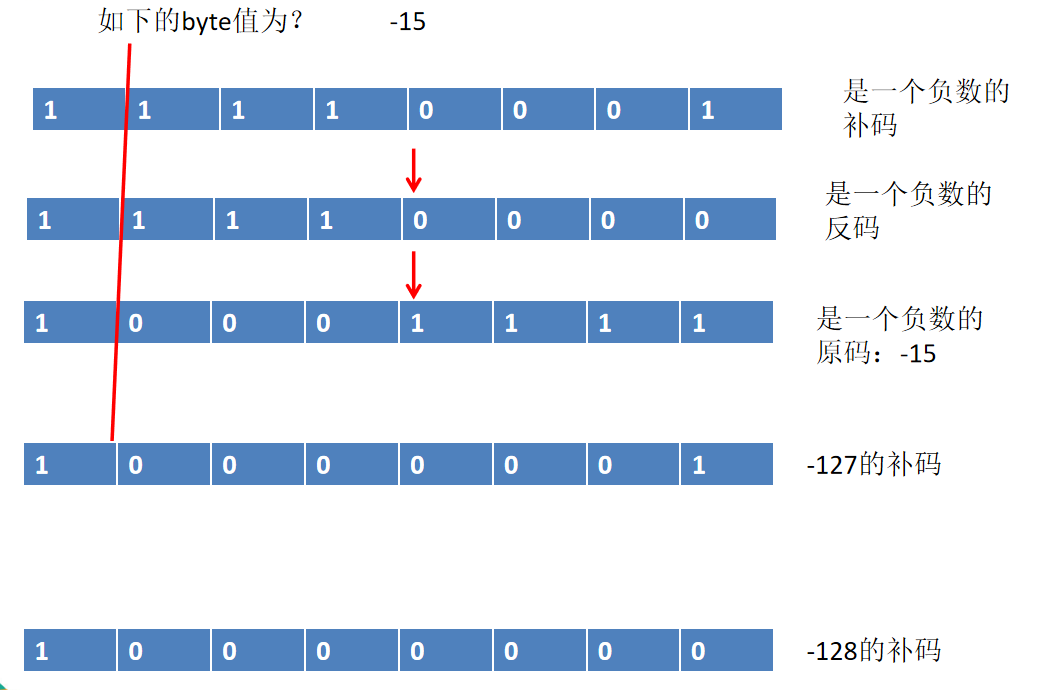
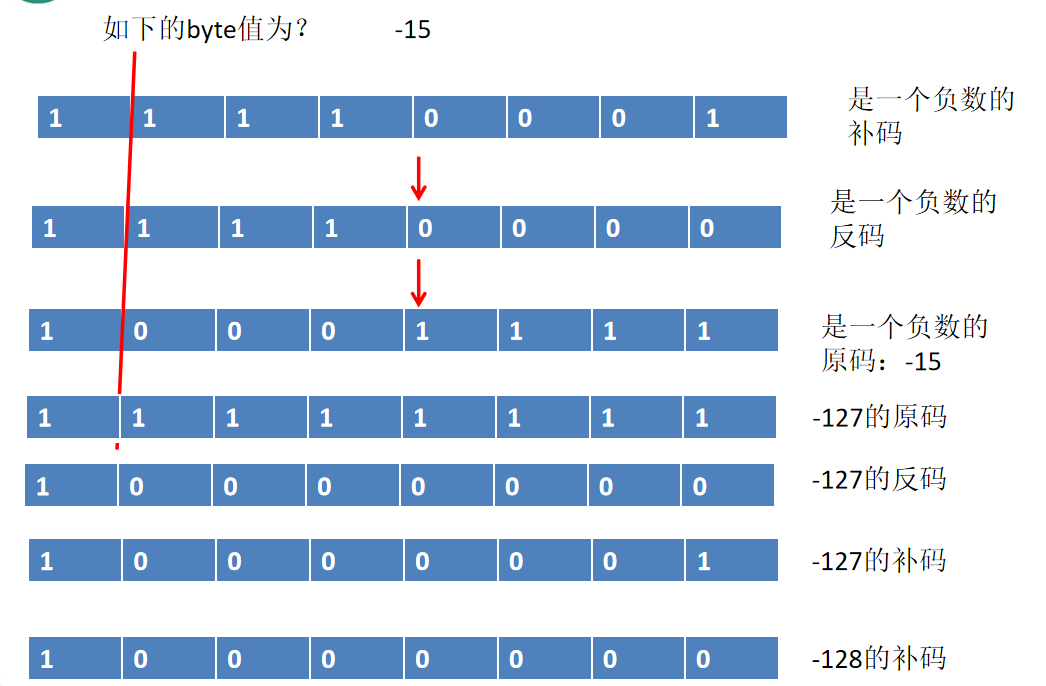
进制之间的转换 算术运算

diff --git a/day01/TestArithmetic.java b/day01/TestArithmetic.java
@@ -1,0 +1,66 @@
+/*
+算术运算
+
+运算符：+(正) -(负) + - * / % ++ -- =(赋值) +(连接)
+* */
+
+public class TestArithmetic {
+    public static void main(String args[]) {
+        // 除：/
+        int i10 = 12;
+        int j = i10 / 5;
+        double d12 = i10 / 5;
+        double d13 = (double)i10 / 5;
+        double d14 = i10 / 5.0;
+
+        System.out.println("j: " + j); // 2
+        System.out.println("d12: " + d12); // 2.0
+        System.out.println("d13: " + d13); // 2.4
+        System.out.println("d14: " + d14); // 2.4
+
+        // 取模(取余数)：%
+        // 结果符号与被模数相同
+        // 模数的符号为负号时忽略
+        int i22 = 13 % 5;
+        int i23 = -13 % 5;
+        int i24 = 13 % (-5);
+        int i25 = -13 % (-5);
+
+        System.out.println("i22: " + i22); // 3
+        System.out.println("i23: " + i23); // -3
+        System.out.println("i24: " + i24); // 3
+        System.out.println("i25: " + i25); // -3
+
+        // 前++：先自增1，后做运算
+        // 后++：后自增1，先做运算
+
+        int i35 = 10;
+        int i36 = ++i35;
+        System.out.println("i35: " + i35); // 11
+        System.out.println("i36: " + i36); // 11
+
+        int i38 = 10;
+        int i39 = i38++;
+        System.out.println("i38: " + i38); // 11
+        System.out.println("i39: " + i39); // 10
+
+        // 前--：先自减1，后做计算
+        // 后--：后自减1，先做计算
+        int i47 = 11;
+        int i48 = --i47;
+        System.out.println("i47: " + i47); // 10
+        System.out.println("i48: " + i48); // 10
+
+        int i52 = 11;
+        int i53 = i52--;
+        System.out.println("i52: " + i52); // 10
+        System.out.println("i53: " + i53); // 11
+
+        // +连接符，除加号功能外另一个功能
+        System.out.println("5 + 5 = " + 5 + 5);
+        System.out.println('*' + '\t' + '*'); // 93，这里字符用''引起来，为char类型数据
+        System.out.println("*" + "\t" + "*"); // *       *
+
+    }
+
+}

diff --git a/day01/README.md b/day01/README.md
@@ -323,18 +323,71 @@ day01-11 不同进制间的转换
 > 0-9及A-F，满16进1，以0x或0X开头。A-F不区分大小写
 
 # 原码、反码、补码
-计算机以补码存储数据
-* 正数的原码、反码、补码三码合一
-* 负数反码：符号位除外，原码各个位取反
+* 所有数字在计算机底层都以二进制形式存在
+* 计算机以补码的形式保存所有的整数。
+* 正数的原码、反码、补码都相同（三码合一）
+* 原码：直接将一个数值转换成二进制数
+* 负数反码：符号位除外，原码各个位取反。对原码按位取反
 * 负数补码：它的反码 + 1
+* 原码、反码、补码中的符号位都不变，即相同
 
+
+负数的原码、反码、补码展示
 ![原码、反码、补码](./images/原码,反码,补码.png)
+![原码、反码、补码2](./images/原码,反码,补码2.png)
 
+负数补码推算其十进制值
 ![负数补码推原码示例](./images/一个负数补码推原码.png)
 
-# 十进制转二进制
+# 进制之间转换
+* 十进制转二进制
 除2取余，逆序排列
 ![十进制转二进制](./images/十进制转二进制.png)
+
+* 进制之间的转换
+![进制之间的转换](./images/进制之间的转换.png)
+* 二进制与十进制互转
+![二进制与十进制互转](./images/十进制与二进制互转.png)
+* 二进制转8进制或16进制
+![二进制转8进制或16进制](./images/二进制转八进制或十六进制.png)
+* 8进制或16进制转二进制
+![8进制或16进制转二进制](./iamges/8进制或16进制转二进制.png)
+
+# 算术运算
+运算符：
+```
++(正)
+-(负)
++
+-
+*
+/
+%
+++
+--
+=(赋值)
++(连接)
+```
+
+## 取模(取余数)：%
+* 结果符号与被模数相同
+* 模数的符号为负号时忽略
+
+## 自增
+* 前++：先自增1，后做运算
+* 后++：后自增1，先做运算
+
+## 自减
+* 前--：先自减1，后做计算
+* 后--：后自减1，先做计算
+
+
+## 算术运算符的注意问题
+* 如果对负数取模，可以把模数负号忽略不记，如：5 % (-2) = 1。取模结果符号与被模数相同
+* 取模运算的结果不一定问题整数
+* 对于除号"/",它的整数除和小数除是有区别的：整数之间做除法时，只保留整数部分，直接舍去小数部分
+* +既可以做加法，也可以做连接用
+* 'c'与"c"的区别，前者是char类型数值，后者是字符串。
 
 
 
